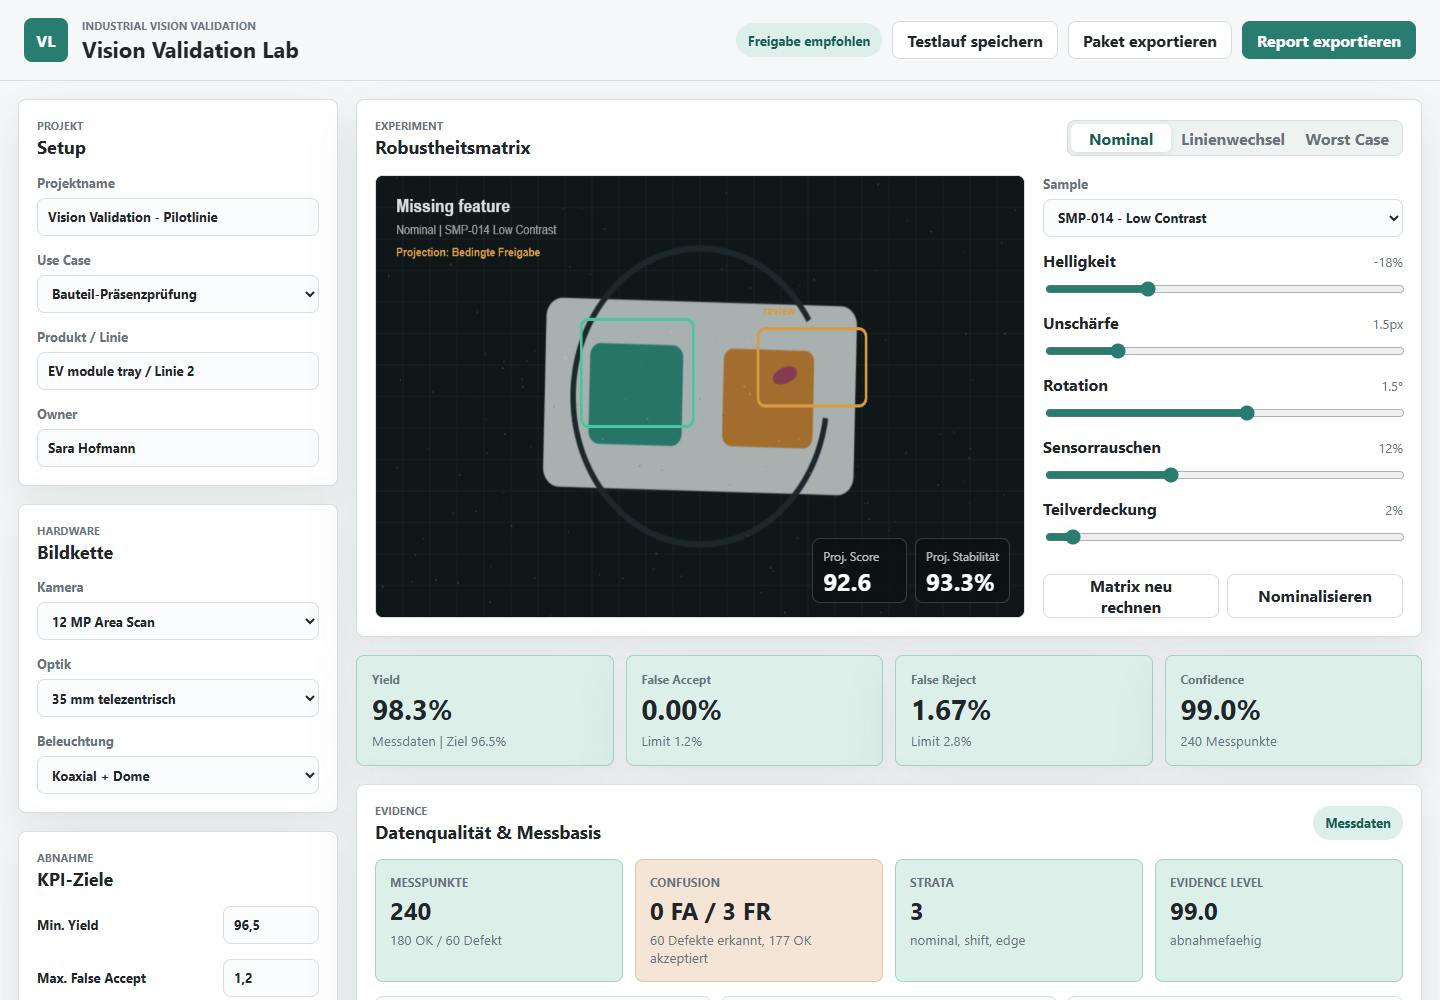
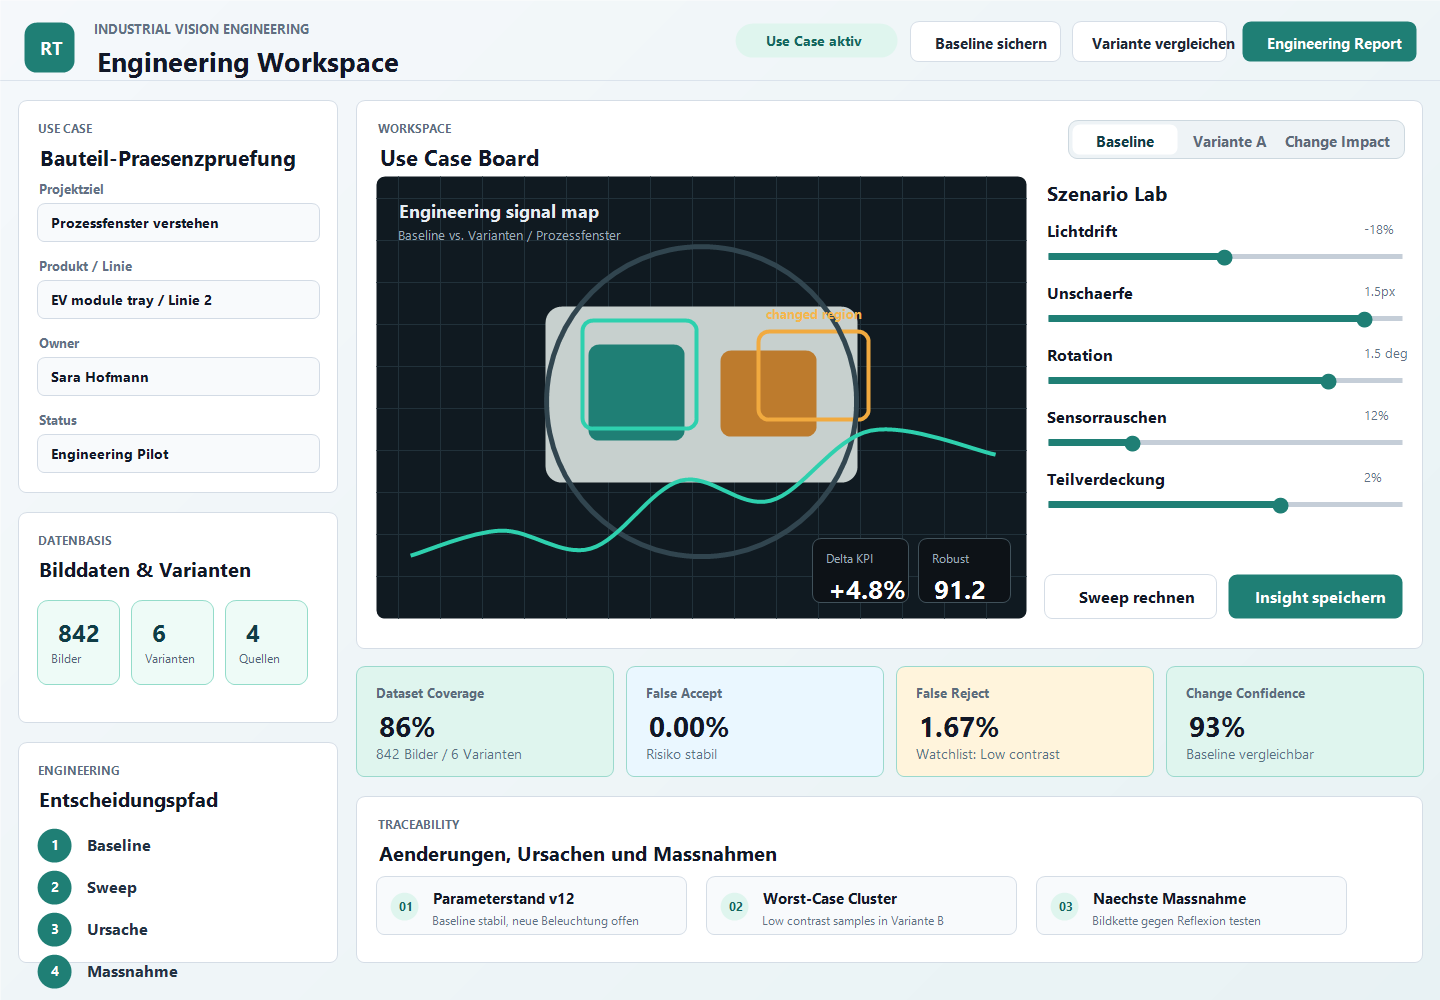
Replace validation mockup with engineering workspace

diff --git a/index.html b/index.html
@@ -125,7 +125,7 @@
                 <span class="window-status">Use Case</span>
               </div>
               <img
-                src="./assets/product-preview.png"
+                src="./assets/product-preview.png?v=20260618-engineering"
                 alt="Produktvorschau des RobuTrace Engineering Workspace mit Datensatz, Testszenarien und Metriken"
               />
             </div>
@@ -251,7 +251,7 @@
           <div class="product-feature">
             <div class="product-feature-media reveal">
               <img
-                src="./assets/product-preview.png"
+                src="./assets/product-preview.png?v=20260618-engineering"
                 alt="RobuTrace Produktoberfläche mit Messdaten, Robustheitsparametern und Engineering-Metriken"
                 loading="lazy"
               />